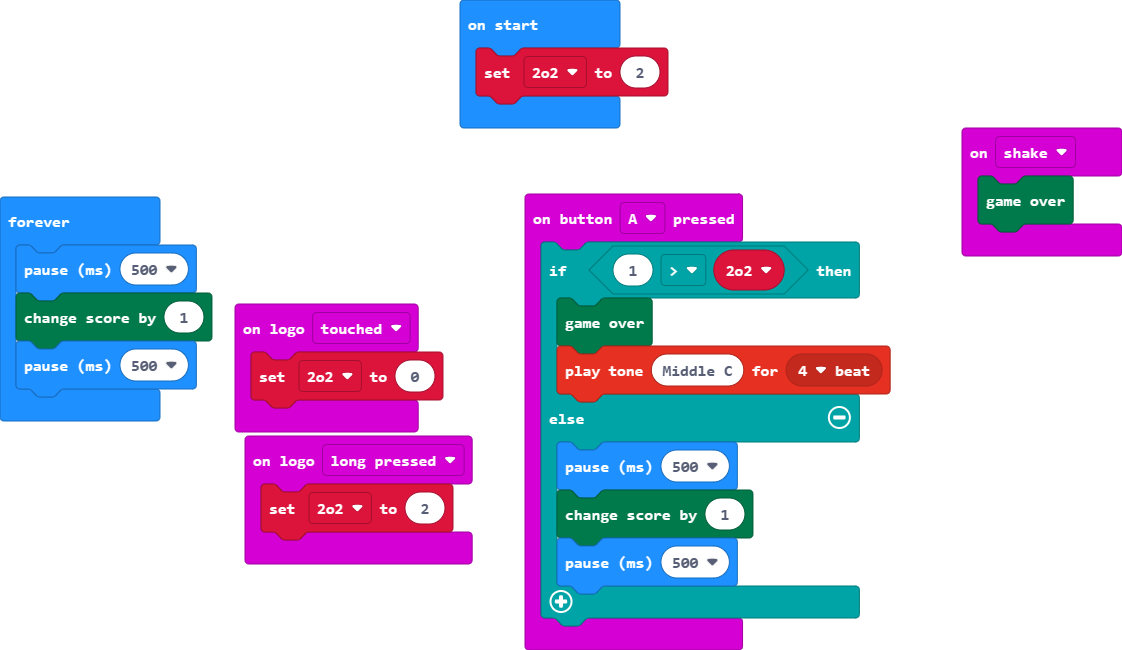
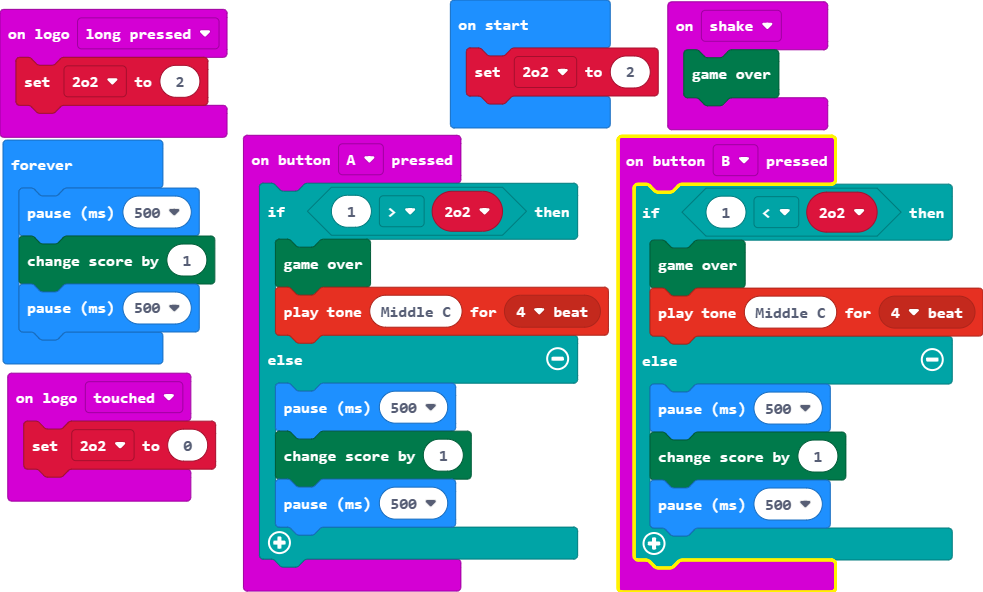
Update main.blocks, main.ts

diff --git a/main.ts b/main.ts
@@ -11,6 +11,16 @@ input.onButtonPressed(Button.A, function () {
         basic.pause(500)
     }
 })
+input.onButtonPressed(Button.B, function () {
+    if (1 < _2o2) {
+        game.gameOver()
+        music.playTone(262, music.beat(BeatFraction.Breve))
+    } else {
+        basic.pause(500)
+        game.addScore(1)
+        basic.pause(500)
+    }
+})
 input.onGesture(Gesture.Shake, function () {
     game.gameOver()
 })
